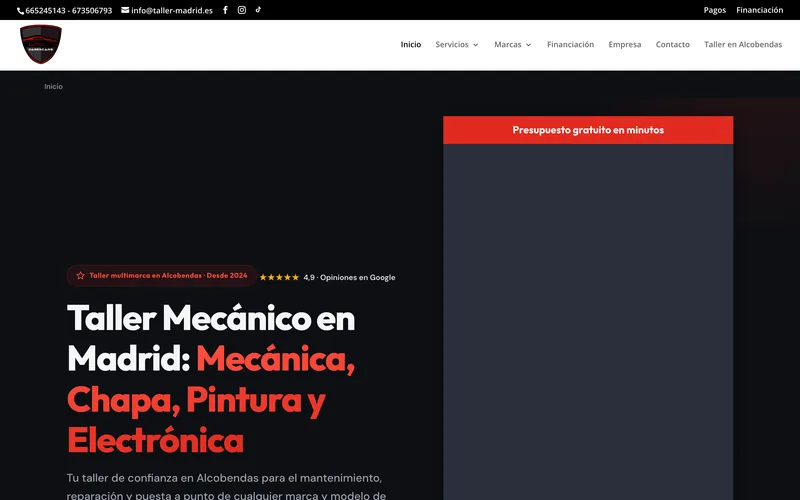
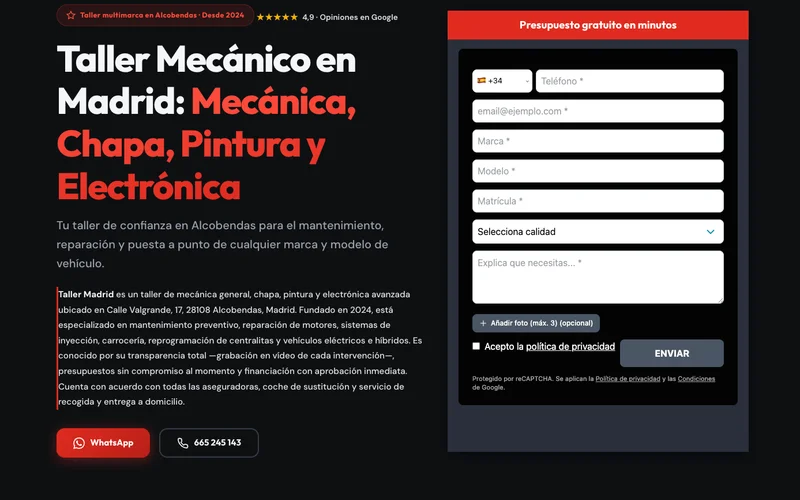
Sync 2 imagenes desde panel

diff --git a/public/diseno-web-madrid/index.html b/public/diseno-web-madrid/index.html
@@ -71,7 +71,7 @@ window.dataLayer=window.dataLayer||[];function gtag(){dataLayer.push(arguments)}
   </div>
 </header>
 <div class="page-hero"><div class="wrap"><p class="crumb"><a href="../">Inicio</a> › Diseño web en Madrid</p><h1>Diseño web en Madrid por <span style="color:var(--accent)">99€ + IVA</span></h1><p class="lead">De Móstoles a Alcalá: creamos webs para negocios de todo Madrid y su corona metropolitana.</p></div></div>
-<section style="padding:64px 0 20px"><div class="wrap prose" style="max-width:840px"><h2 style="margin-top:0">¿Cuánto cuesta un diseño web en Madrid?</h2><p style="font-size:19px">Las agencias madrileñas cobran entre 1.500€ y 5.000€ por una web corporativa. <strong>Con TuWebPor99 son 99€ + IVA todo incluido</strong> — diseño, logo, dominio, hosting y SEO local — con entrega en menos de 3 días.</p></div></section><section style="padding:44px 0"><div class="wrap"><div class="aud-grid"><div class="aud"><h3>SEO local Madrid</h3><p>Visible en las búsquedas de tu distrito o municipio: Vallecas, Getafe, Alcorcón, Alcalá…</p></div><div class="aud"><h3>Experiencia en la capital</h3><p>Talleres, mudanzas, peluquerías caninas, estética… ya posicionamos negocios madrileños de todo tipo.</p></div><div class="aud"><h3>100% online, 100% rápido</h3><p>Todo por WhatsApp, email o llamada. Tu web en 3 días sin moverte de tu negocio.</p></div></div></div></section><section style="padding:44px 0"><div class="wrap"><div class="sec-head" style="margin-bottom:32px"><span class="tag">Casos reales</span><h2>Negocios de Madrid con webs nuestras</h2></div><div class="pf-grid"><article class="pf"><a href="https://www.taller-madrid.es" target="_blank" rel="noopener"><img src="/img/pf-taller-madrid.webp" alt="Web de taller-madrid.es: Taller mecánico en Madrid" width="800" height="500" loading="lazy"><div class="pf-body"><span class="cat">Madrid</span><h3>taller-madrid.es</h3><p>Taller mecánico en Madrid</p></div></a></article><article class="pf"><a href="https://www.mixpeludos.es" target="_blank" rel="noopener"><img src="/img/pf-mixpeludos.webp" alt="Web de mixpeludos.es: Peluquería canina y felina, única en corte a gatos sin anestesia" width="800" height="500" loading="lazy"><div class="pf-body"><span class="cat">Madrid</span><h3>mixpeludos.es</h3><p>Peluquería canina y felina, única en corte a gatos sin anestesia</p></div></a></article></div><ul class="dom-cols" style="columns:2;max-width:700px"><li><a href="https://www.madrid-mudanzas.es" target="_blank" rel="noopener">madrid-mudanzas.es</a></li><li><a href="https://www.estetica-madrid.es" target="_blank" rel="noopener">estetica-madrid.es</a></li><li><a href="https://www.detailingmadrid.es" target="_blank" rel="noopener">detailingmadrid.es</a></li><li><a href="https://www.cerrajeroalcalahenares.es" target="_blank" rel="noopener">cerrajeroalcalahenares.es</a></li><li><a href="https://www.taller-mostoles.es" target="_blank" rel="noopener">taller-mostoles.es</a></li><li><a href="https://www.tallergetafe.es" target="_blank" rel="noopener">tallergetafe.es</a></li><li><a href="https://www.talleralcorcon.es" target="_blank" rel="noopener">talleralcorcon.es</a></li><li><a href="https://www.taller-vallecas.es" target="_blank" rel="noopener">taller-vallecas.es</a></li></ul><p style="margin-top:28px"><a href="../portfolio/">Ver todo el portfolio por sectores →</a></p></div></section><section style="padding:44px 0 72px"><div class="wrap"><div class="sec-head" style="margin-bottom:28px"><h2>Preguntas frecuentes</h2></div><div class="faq-list"><details><summary>¿Tenéis oficina en Madrid?</summary><p>Somos de Barcelona y trabajamos en toda España de forma online: WhatsApp, email o llamada. Todo el proceso, del formulario a la entrega, sin desplazamientos.</p></details><details><summary>¿El SEO local para Madrid está incluido?</summary><p>Sí: optimizamos tu web para las búsquedas de tu ciudad y tu zona en Google, Bing y las principales IAs, con 10 artículos SEO incluidos.</p></details><details><summary>¿Cuánto tarda?</summary><p>Menos de 3 días desde la confirmación del proyecto.</p></details></div></div></section>
+<section style="padding:64px 0 20px"><div class="wrap prose" style="max-width:840px"><h2 style="margin-top:0">¿Cuánto cuesta un diseño web en Madrid?</h2><p style="font-size:19px">Las agencias madrileñas cobran entre 1.500€ y 5.000€ por una web corporativa. <strong>Con TuWebPor99 son 99€ + IVA todo incluido</strong> — diseño, logo, dominio, hosting y SEO local — con entrega en menos de 3 días.</p></div></section><section style="padding:44px 0"><div class="wrap"><div class="aud-grid"><div class="aud"><h3>SEO local Madrid</h3><p>Visible en las búsquedas de tu distrito o municipio: Vallecas, Getafe, Alcorcón, Alcalá…</p></div><div class="aud"><h3>Experiencia en la capital</h3><p>Talleres, mudanzas, peluquerías caninas, estética… ya posicionamos negocios madrileños de todo tipo.</p></div><div class="aud"><h3>100% online, 100% rápido</h3><p>Todo por WhatsApp, email o llamada. Tu web en 3 días sin moverte de tu negocio.</p></div></div></div></section><section style="padding:44px 0"><div class="wrap"><div class="sec-head" style="margin-bottom:32px"><span class="tag">Casos reales</span><h2>Negocios de Madrid con webs nuestras</h2></div><div class="pf-grid"><article class="pf"><a href="https://www.taller-madrid.es" target="_blank" rel="noopener"><img src="/img/pf-taller-madrid.webp" alt="Pf Taller Madrid - Tuwebpor99 en España" width="800" height="500" loading="lazy"><div class="pf-body"><span class="cat">Madrid</span><h3>taller-madrid.es</h3><p>Taller mecánico en Madrid</p></div></a></article><article class="pf"><a href="https://www.mixpeludos.es" target="_blank" rel="noopener"><img src="/img/pf-mixpeludos.webp" alt="Web de mixpeludos.es: Peluquería canina y felina, única en corte a gatos sin anestesia" width="800" height="500" loading="lazy"><div class="pf-body"><span class="cat">Madrid</span><h3>mixpeludos.es</h3><p>Peluquería canina y felina, única en corte a gatos sin anestesia</p></div></a></article></div><ul class="dom-cols" style="columns:2;max-width:700px"><li><a href="https://www.madrid-mudanzas.es" target="_blank" rel="noopener">madrid-mudanzas.es</a></li><li><a href="https://www.estetica-madrid.es" target="_blank" rel="noopener">estetica-madrid.es</a></li><li><a href="https://www.detailingmadrid.es" target="_blank" rel="noopener">detailingmadrid.es</a></li><li><a href="https://www.cerrajeroalcalahenares.es" target="_blank" rel="noopener">cerrajeroalcalahenares.es</a></li><li><a href="https://www.taller-mostoles.es" target="_blank" rel="noopener">taller-mostoles.es</a></li><li><a href="https://www.tallergetafe.es" target="_blank" rel="noopener">tallergetafe.es</a></li><li><a href="https://www.talleralcorcon.es" target="_blank" rel="noopener">talleralcorcon.es</a></li><li><a href="https://www.taller-vallecas.es" target="_blank" rel="noopener">taller-vallecas.es</a></li></ul><p style="margin-top:28px"><a href="../portfolio/">Ver todo el portfolio por sectores →</a></p></div></section><section style="padding:44px 0 72px"><div class="wrap"><div class="sec-head" style="margin-bottom:28px"><h2>Preguntas frecuentes</h2></div><div class="faq-list"><details><summary>¿Tenéis oficina en Madrid?</summary><p>Somos de Barcelona y trabajamos en toda España de forma online: WhatsApp, email o llamada. Todo el proceso, del formulario a la entrega, sin desplazamientos.</p></details><details><summary>¿El SEO local para Madrid está incluido?</summary><p>Sí: optimizamos tu web para las búsquedas de tu ciudad y tu zona en Google, Bing y las principales IAs, con 10 artículos SEO incluidos.</p></details><details><summary>¿Cuánto tarda?</summary><p>Menos de 3 días desde la confirmación del proyecto.</p></details></div></div></section>
 <section class="cta-final"><div class="wrap"><h2>¿Empezamos con tu web? <em>Solo 99€ + IVA</em></h2><p>Rellena el formulario en 2 minutos y recibe tu web completa, con dominio y posicionamiento, en menos de 3 días.</p><a class="btn btn-primary" href="../contacto/">Quiero mi web por 99€</a><p class="sub">O escríbenos: <a href="https://wa.me/34618794322" target="_blank" rel="noopener">WhatsApp 618 79 43 22</a> · <a href="mailto:info@tuwebpor99.es">info@tuwebpor99.es</a></p></div></section>
 <footer>
   <div class="wrap">
@@ -138,5 +138,8 @@ window.dataLayer=window.dataLayer||[];function gtag(){dataLayer.push(arguments)}
   </div>
 </footer>
 <script>(function(){if(/tuwebpor99\.es$/.test(location.hostname))return;document.querySelectorAll('a[href$="/"]').forEach(function(a){var h=a.getAttribute("href");if(!/^(https?:|mailto:|tel:)/.test(h))a.setAttribute("href",h+"index.html");});})();</script>
+<!-- imagenes-seo:inicio -->
+<script type="application/ld+json">{"@context":"https://schema.org","@graph":[{"@type":"ImageObject","contentUrl":"https://www.tuwebpor99.es/img/pf-taller-madrid.webp","url":"https://www.tuwebpor99.es/img/pf-taller-madrid.webp","caption":"Pf Taller Madrid - Tuwebpor99 en España","description":"Pf Taller Madrid - Tuwebpor99 en España","creditText":"Tuwebpor99","copyrightNotice":"© Tuwebpor99","creator":{"@type":"Organization","name":"Tuwebpor99"},"name":"Pf Taller Madrid · Tuwebpor99","keywords":"Pf Taller Madrid, España, Consultoría / Servicios PYME, Tuwebpor99","width":800,"height":500,"contentLocation":{"@type":"Place","name":"España"}}]}</script>
+<!-- imagenes-seo:fin -->
 </body>
 </html>

diff --git a/public/diseno-web-talleres/index.html b/public/diseno-web-talleres/index.html
@@ -70,7 +70,7 @@ window.dataLayer=window.dataLayer||[];function gtag(){dataLayer.push(arguments)}
   </div>
 </header>
 <div class="page-hero"><div class="wrap"><p class="crumb"><a href="../">Inicio</a> › Diseño web para talleres</p><h1>Diseño web para talleres mecánicos por <span style="color:var(--accent)">99€ + IVA</span></h1><p class="lead">Más de 100 talleres de toda España ya captan clientes cada día con nuestras webs.</p></div></div>
-<section style="padding:64px 0 20px"><div class="wrap prose" style="max-width:840px"><h2 style="margin-top:0">¿Cuánto cuesta una página web para un taller mecánico?</h2><p style="font-size:19px"><strong>Con TuWebPor99, 99€ + IVA todo incluido:</strong> diseño a medida, logotipo, dominio, hosting, correo corporativo y SEO con 10 artículos para tus servicios. Lista en menos de 3 días.</p></div></section><section style="padding:44px 0"><div class="wrap"><div class="aud-grid"><div class="aud"><h3>Aparece en "taller cerca de mí"</h3><p>SEO local para que te encuentren los conductores de tu zona justo cuando te necesitan.</p></div><div class="aud"><h3>Una página por servicio</h3><p>Frenos, distribución, embrague, diagnosis… cada servicio posiciona por separado en Google.</p></div><div class="aud"><h3>Cita previa por WhatsApp</h3><p>Botón directo de WhatsApp y llamada: del buscador a tu taller en dos toques.</p></div></div></div></section><section style="padding:44px 0"><div class="wrap"><div class="sec-head" style="margin-bottom:32px"><span class="tag">Casos reales</span><h2>Talleres que ya venden con nuestras webs</h2></div><div class="pf-grid"><article class="pf"><a href="https://www.tallersmarathon.com" target="_blank" rel="noopener"><img src="/img/pf-tallersmarathon.webp" alt="Web de tallersmarathon.com: Taller mecánico multimarca en Barcelona" width="800" height="500" loading="lazy"><div class="pf-body"><span class="cat">Automoción</span><h3>tallersmarathon.com</h3><p>Taller mecánico multimarca en Barcelona</p></div></a></article><article class="pf"><a href="https://www.taller-madrid.es" target="_blank" rel="noopener"><img src="/img/pf-taller-madrid.webp" alt="Web de taller-madrid.es: Taller mecánico en Madrid" width="800" height="500" loading="lazy"><div class="pf-body"><span class="cat">Automoción</span><h3>taller-madrid.es</h3><p>Taller mecánico en Madrid</p></div></a></article><article class="pf"><a href="https://www.repromatronic.es" target="_blank" rel="noopener"><img src="/img/pf-repromatronic.webp" alt="Web de repromatronic.es: Reprogramación de centralitas ECU/TCU y chiptuning" width="800" height="500" loading="lazy"><div class="pf-body"><span class="cat">Automoción</span><h3>repromatronic.es</h3><p>Reprogramación de centralitas ECU/TCU y chiptuning</p></div></a></article></div><p style="margin-top:28px"><a href="../portfolio/">Ver todo el portfolio por sectores →</a></p></div></section><section style="padding:44px 0 72px"><div class="wrap"><div class="sec-head" style="margin-bottom:28px"><h2>Preguntas frecuentes</h2></div><div class="faq-list"><details><summary>¿Sirve para talleres multimarca y especializados?</summary><p>Sí. Hemos creado webs para talleres multimarca, especialistas en embrague, distribución, turbos, coches eléctricos, motos y náutica, entre otros.</p></details><details><summary>¿Puedo mostrar mis servicios y tarifas?</summary><p>Sí, estructuramos la web por servicios con sus precios si lo deseas, cada uno optimizado para posicionar por separado.</p></details><details><summary>¿Cómo me encontrarán los clientes?</summary><p>Optimizamos tu web para búsquedas locales como "taller + tu ciudad" en Google y Bing, y para las respuestas de las principales IAs.</p></details><details><summary>¿Cuánto tarda?</summary><p>Menos de 3 días desde que confirmas el proyecto con el 50%.</p></details></div></div></section>
+<section style="padding:64px 0 20px"><div class="wrap prose" style="max-width:840px"><h2 style="margin-top:0">¿Cuánto cuesta una página web para un taller mecánico?</h2><p style="font-size:19px"><strong>Con TuWebPor99, 99€ + IVA todo incluido:</strong> diseño a medida, logotipo, dominio, hosting, correo corporativo y SEO con 10 artículos para tus servicios. Lista en menos de 3 días.</p></div></section><section style="padding:44px 0"><div class="wrap"><div class="aud-grid"><div class="aud"><h3>Aparece en "taller cerca de mí"</h3><p>SEO local para que te encuentren los conductores de tu zona justo cuando te necesitan.</p></div><div class="aud"><h3>Una página por servicio</h3><p>Frenos, distribución, embrague, diagnosis… cada servicio posiciona por separado en Google.</p></div><div class="aud"><h3>Cita previa por WhatsApp</h3><p>Botón directo de WhatsApp y llamada: del buscador a tu taller en dos toques.</p></div></div></div></section><section style="padding:44px 0"><div class="wrap"><div class="sec-head" style="margin-bottom:32px"><span class="tag">Casos reales</span><h2>Talleres que ya venden con nuestras webs</h2></div><div class="pf-grid"><article class="pf"><a href="https://www.tallersmarathon.com" target="_blank" rel="noopener"><img src="/img/pf-tallersmarathon.webp" alt="Web de tallersmarathon.com: Taller mecánico multimarca en Barcelona" width="800" height="500" loading="lazy"><div class="pf-body"><span class="cat">Automoción</span><h3>tallersmarathon.com</h3><p>Taller mecánico multimarca en Barcelona</p></div></a></article><article class="pf"><a href="https://www.taller-madrid.es" target="_blank" rel="noopener"><img src="/img/pf-taller-madrid.webp" alt="Pf Taller Madrid - Tuwebpor99 en España" width="800" height="500" loading="lazy"><div class="pf-body"><span class="cat">Automoción</span><h3>taller-madrid.es</h3><p>Taller mecánico en Madrid</p></div></a></article><article class="pf"><a href="https://www.repromatronic.es" target="_blank" rel="noopener"><img src="/img/pf-repromatronic.webp" alt="Web de repromatronic.es: Reprogramación de centralitas ECU/TCU y chiptuning" width="800" height="500" loading="lazy"><div class="pf-body"><span class="cat">Automoción</span><h3>repromatronic.es</h3><p>Reprogramación de centralitas ECU/TCU y chiptuning</p></div></a></article></div><p style="margin-top:28px"><a href="../portfolio/">Ver todo el portfolio por sectores →</a></p></div></section><section style="padding:44px 0 72px"><div class="wrap"><div class="sec-head" style="margin-bottom:28px"><h2>Preguntas frecuentes</h2></div><div class="faq-list"><details><summary>¿Sirve para talleres multimarca y especializados?</summary><p>Sí. Hemos creado webs para talleres multimarca, especialistas en embrague, distribución, turbos, coches eléctricos, motos y náutica, entre otros.</p></details><details><summary>¿Puedo mostrar mis servicios y tarifas?</summary><p>Sí, estructuramos la web por servicios con sus precios si lo deseas, cada uno optimizado para posicionar por separado.</p></details><details><summary>¿Cómo me encontrarán los clientes?</summary><p>Optimizamos tu web para búsquedas locales como "taller + tu ciudad" en Google y Bing, y para las respuestas de las principales IAs.</p></details><details><summary>¿Cuánto tarda?</summary><p>Menos de 3 días desde que confirmas el proyecto con el 50%.</p></details></div></div></section>
 <section class="cta-final"><div class="wrap"><h2>¿Empezamos con tu web? <em>Solo 99€ + IVA</em></h2><p>Rellena el formulario en 2 minutos y recibe tu web completa, con dominio y posicionamiento, en menos de 3 días.</p><a class="btn btn-primary" href="../contacto/">Quiero mi web por 99€</a><p class="sub">O escríbenos: <a href="https://wa.me/34618794322" target="_blank" rel="noopener">WhatsApp 618 79 43 22</a> · <a href="mailto:info@tuwebpor99.es">info@tuwebpor99.es</a></p></div></section>
 <footer>
   <div class="wrap">
@@ -137,5 +137,8 @@ window.dataLayer=window.dataLayer||[];function gtag(){dataLayer.push(arguments)}
   </div>
 </footer>
 <script>(function(){if(/tuwebpor99\.es$/.test(location.hostname))return;document.querySelectorAll('a[href$="/"]').forEach(function(a){var h=a.getAttribute("href");if(!/^(https?:|mailto:|tel:)/.test(h))a.setAttribute("href",h+"index.html");});})();</script>
+<!-- imagenes-seo:inicio -->
+<script type="application/ld+json">{"@context":"https://schema.org","@graph":[{"@type":"ImageObject","contentUrl":"https://www.tuwebpor99.es/img/pf-taller-madrid.webp","url":"https://www.tuwebpor99.es/img/pf-taller-madrid.webp","caption":"Pf Taller Madrid - Tuwebpor99 en España","description":"Pf Taller Madrid - Tuwebpor99 en España","creditText":"Tuwebpor99","copyrightNotice":"© Tuwebpor99","creator":{"@type":"Organization","name":"Tuwebpor99"},"name":"Pf Taller Madrid · Tuwebpor99","keywords":"Pf Taller Madrid, España, Consultoría / Servicios PYME, Tuwebpor99","width":800,"height":500,"contentLocation":{"@type":"Place","name":"España"}}]}</script>
+<!-- imagenes-seo:fin -->
 </body>
 </html>

diff --git a/public/en/index.html b/public/en/index.html
@@ -120,7 +120,7 @@ window.dataLayer=window.dataLayer||[];function gtag(){dataLayer.push(arguments)}
 <div class="sector-tabs"><span>Automotive</span><span>Home &amp; renovations</span><span>Health &amp; beauty</span><span>Online stores</span><span>Lead generation</span><span>Training</span></div>
 <div class="pf-grid">
       <article class="pf"><a href="https://www.programa-taller.es" target="_blank" rel="noopener"><img src="/img/pf-programa-taller.webp" alt="Website programa-taller.es, garage management software" width="800" height="500" loading="lazy"><div class="pf-body"><span class="cat">Automotive</span><h3>programa-taller.es</h3><p>Management software for garages</p></div></a></article>
-      <article class="pf"><a href="https://www.taller-madrid.es" target="_blank" rel="noopener"><img src="/img/pf-taller-madrid.webp" alt="Website taller-madrid.es, garage in Madrid" width="800" height="500" loading="lazy"><div class="pf-body"><span class="cat">Automotive</span><h3>taller-madrid.es</h3><p>Garage in Madrid</p></div></a></article>
+      <article class="pf"><a href="https://www.taller-madrid.es" target="_blank" rel="noopener"><img src="/img/pf-taller-madrid.webp" alt="Pf Taller Madrid - Tuwebpor99 en España" width="800" height="500" loading="lazy"><div class="pf-body"><span class="cat">Automotive</span><h3>taller-madrid.es</h3><p>Garage in Madrid</p></div></a></article>
       <article class="pf"><a href="https://www.mixpeludos.es" target="_blank" rel="noopener"><img src="/img/pf-mixpeludos.webp" alt="Website mixpeludos.es, pet grooming in Madrid" width="800" height="500" loading="lazy"><div class="pf-body"><span class="cat">Pets</span><h3>mixpeludos.es</h3><p>Dog and cat grooming in Madrid — unique cat haircuts without anaesthesia</p></div></a></article>
       <article class="pf"><a href="https://www.house-flipping.es" target="_blank" rel="noopener"><img src="/img/pf-house-flipping.webp" alt="Website house-flipping.es, real-estate investment" width="800" height="500" loading="lazy"><div class="pf-body"><span class="cat">Real estate</span><h3>house-flipping.es</h3><p>Real-estate investment: buy, renovate and resell</p></div></a></article>
       <article class="pf"><a href="https://www.jeisyquintero.com" target="_blank" rel="noopener"><img src="/img/pf-jeisyquintero.webp" alt="Website jeisyquintero.com, wood therapy centre" width="800" height="500" loading="lazy"><div class="pf-body"><span class="cat">Health & beauty</span><h3>jeisyquintero.com</h3><p>Wood therapy and Slim 360° method in Barcelona and Madrid</p></div></a></article>
@@ -146,7 +146,7 @@ window.dataLayer=window.dataLayer||[];function gtag(){dataLayer.push(arguments)}
 <li><span class="chk">✓</span><span><strong>Over 90 on Google PageSpeed:</strong> fast loading on mobile and desktop.</span></li>
 
 </ul></div>
-<div class="seo-img"><img src="/img/seo-resultados.webp" alt="Google search results showing a client website in first position" width="640" height="520" loading="lazy"></div>
+<div class="seo-img"><img src="/img/seo-resultados.webp" alt="Seo Resultados - Tuwebpor99 en España" width="640" height="520" loading="lazy"></div>
 </div></section>
 <section class="cta-final"><div class="wrap"><h2>Your competitors are already on Google.<br><em>Are you?</em></h2><p>Fill in the form in 2 minutes and in under 3 days your business will have a website, logo, domain and rankings. For €99 + VAT.</p><a class="btn btn-primary" href="../en/contact/">Get my website for €99</a><p class="sub">Or reach us: <a href="https://wa.me/34618794322" target="_blank" rel="noopener">WhatsApp +34 618 79 43 22</a> · <a href="mailto:info@tuwebpor99.es">info@tuwebpor99.es</a></p></div></section>
 
@@ -198,7 +198,7 @@ window.dataLayer=window.dataLayer||[];function gtag(){dataLayer.push(arguments)}
 </footer>
 <script>(function(){if(/tuwebpor99\.es$/.test(location.hostname))return;document.querySelectorAll('a[href$="/"]').forEach(function(a){var h=a.getAttribute("href");if(!/^(https?:|mailto:|tel:)/.test(h))a.setAttribute("href",h+"index.html");});})();</script>
 <!-- imagenes-seo:inicio -->
-<script type="application/ld+json">{"@context":"https://schema.org","@graph":[{"@type":"ImageObject","contentUrl":"https://www.tuwebpor99.es/img/hero.webp","url":"https://www.tuwebpor99.es/img/hero.webp","caption":"Hero - Tuwebpor99 en España","description":"Hero - Tuwebpor99 en España","representativeOfPage":true,"creditText":"Tuwebpor99","copyrightNotice":"© Tuwebpor99","creator":{"@type":"Organization","name":"Tuwebpor99"},"name":"Hero · Tuwebpor99","keywords":"Hero, España, Consultoría / Servicios PYME, Tuwebpor99","width":1200,"height":800,"contentLocation":{"@type":"Place","name":"España"}}]}</script>
+<script type="application/ld+json">{"@context":"https://schema.org","@graph":[{"@type":"ImageObject","contentUrl":"https://www.tuwebpor99.es/img/seo-resultados.webp","url":"https://www.tuwebpor99.es/img/seo-resultados.webp","caption":"Seo Resultados - Tuwebpor99 en España","description":"Seo Resultados - Tuwebpor99 en España","creditText":"Tuwebpor99","copyrightNotice":"© Tuwebpor99","creator":{"@type":"Organization","name":"Tuwebpor99"},"name":"Seo Resultados · Tuwebpor99","keywords":"Seo Resultados, España, Consultoría / Servicios PYME, Tuwebpor99","width":1200,"height":800,"contentLocation":{"@type":"Place","name":"España"}},{"@type":"ImageObject","contentUrl":"https://www.tuwebpor99.es/img/pf-taller-madrid.webp","url":"https://www.tuwebpor99.es/img/pf-taller-madrid.webp","caption":"Pf Taller Madrid - Tuwebpor99 en España","description":"Pf Taller Madrid - Tuwebpor99 en España","creditText":"Tuwebpor99","copyrightNotice":"© Tuwebpor99","creator":{"@type":"Organization","name":"Tuwebpor99"},"name":"Pf Taller Madrid · Tuwebpor99","keywords":"Pf Taller Madrid, España, Consultoría / Servicios PYME, Tuwebpor99","width":800,"height":500,"contentLocation":{"@type":"Place","name":"España"}}]}</script>
 <!-- imagenes-seo:fin -->
 </body>
 </html>

diff --git a/public/index.html b/public/index.html
@@ -186,7 +186,7 @@ window.dataLayer=window.dataLayer||[];function gtag(){dataLayer.push(arguments)}
     </div>
     <div class="pf-grid">
       <article class="pf"><a href="https://www.programa-taller.es" target="_blank" rel="noopener"><img src="/img/pf-programa-taller.webp" alt="Web de programa-taller.es, software de gestión para talleres" width="800" height="500" loading="lazy"><div class="pf-body"><span class="cat">Automoción</span><h3>programa-taller.es</h3><p>Software de gestión para talleres mecánicos</p></div></a></article>
-      <article class="pf"><a href="https://www.taller-madrid.es" target="_blank" rel="noopener"><img src="/img/pf-taller-madrid.webp" alt="Web de taller-madrid.es, taller mecánico en Madrid" width="800" height="500" loading="lazy"><div class="pf-body"><span class="cat">Automoción</span><h3>taller-madrid.es</h3><p>Taller mecánico en Madrid</p></div></a></article>
+      <article class="pf"><a href="https://www.taller-madrid.es" target="_blank" rel="noopener"><img src="/img/pf-taller-madrid.webp" alt="Pf Taller Madrid - Tuwebpor99 en España" width="800" height="500" loading="lazy"><div class="pf-body"><span class="cat">Automoción</span><h3>taller-madrid.es</h3><p>Taller mecánico en Madrid</p></div></a></article>
       <article class="pf"><a href="https://www.mixpeludos.es" target="_blank" rel="noopener"><img src="/img/pf-mixpeludos.webp" alt="Web de mixpeludos.es, peluquería canina y felina en Madrid" width="800" height="500" loading="lazy"><div class="pf-body"><span class="cat">Mascotas</span><h3>mixpeludos.es</h3><p>Peluquería canina y felina en Madrid, única en corte de pelo a gatos sin anestesia</p></div></a></article>
       <article class="pf"><a href="https://www.house-flipping.es" target="_blank" rel="noopener"><img src="/img/pf-house-flipping.webp" alt="Web de house-flipping.es, inversión inmobiliaria" width="800" height="500" loading="lazy"><div class="pf-body"><span class="cat">Inmobiliaria</span><h3>house-flipping.es</h3><p>Inversión inmobiliaria: compra, reforma y reventa de vivienda</p></div></a></article>
       <article class="pf"><a href="https://www.jeisyquintero.com" target="_blank" rel="noopener"><img src="/img/pf-jeisyquintero.webp" alt="Web de jeisyquintero.com, centro de maderoterapia" width="800" height="500" loading="lazy"><div class="pf-body"><span class="cat">Salud y estética</span><h3>jeisyquintero.com</h3><p>Maderoterapia y método Slim 360° en Barcelona y Madrid</p></div></a></article>
@@ -227,7 +227,7 @@ window.dataLayer=window.dataLayer||[];function gtag(){dataLayer.push(arguments)}
       </ul>
     </div>
     <div class="seo-img">
-      <img src="/img/seo-resultados.webp" alt="Resultados de búsqueda en Google mostrando una web cliente en primera posición" width="640" height="520" loading="lazy">
+      <img src="/img/seo-resultados.webp" alt="Seo Resultados - Tuwebpor99 en España" width="640" height="520" loading="lazy">
     </div>
   </div>
 </section>
@@ -308,7 +308,7 @@ window.dataLayer=window.dataLayer||[];function gtag(){dataLayer.push(arguments)}
 
 <script>(function(){if(/tuwebpor99\.es$/.test(location.hostname))return;document.querySelectorAll('a[href$="/"]').forEach(function(a){var h=a.getAttribute("href");if(!/^(https?:|mailto:|tel:)/.test(h))a.setAttribute("href",h+"index.html");});})();</script>
 <!-- imagenes-seo:inicio -->
-<script type="application/ld+json">{"@context":"https://schema.org","@graph":[{"@type":"ImageObject","contentUrl":"https://www.tuwebpor99.es/img/hero.webp","url":"https://www.tuwebpor99.es/img/hero.webp","caption":"Hero - Tuwebpor99 en España","description":"Hero - Tuwebpor99 en España","representativeOfPage":true,"creditText":"Tuwebpor99","copyrightNotice":"© Tuwebpor99","creator":{"@type":"Organization","name":"Tuwebpor99"},"name":"Hero · Tuwebpor99","keywords":"Hero, España, Consultoría / Servicios PYME, Tuwebpor99","width":1200,"height":800,"contentLocation":{"@type":"Place","name":"España"}}]}</script>
+<script type="application/ld+json">{"@context":"https://schema.org","@graph":[{"@type":"ImageObject","contentUrl":"https://www.tuwebpor99.es/img/seo-resultados.webp","url":"https://www.tuwebpor99.es/img/seo-resultados.webp","caption":"Seo Resultados - Tuwebpor99 en España","description":"Seo Resultados - Tuwebpor99 en España","creditText":"Tuwebpor99","copyrightNotice":"© Tuwebpor99","creator":{"@type":"Organization","name":"Tuwebpor99"},"name":"Seo Resultados · Tuwebpor99","keywords":"Seo Resultados, España, Consultoría / Servicios PYME, Tuwebpor99","width":1200,"height":800,"contentLocation":{"@type":"Place","name":"España"}},{"@type":"ImageObject","contentUrl":"https://www.tuwebpor99.es/img/pf-taller-madrid.webp","url":"https://www.tuwebpor99.es/img/pf-taller-madrid.webp","caption":"Pf Taller Madrid - Tuwebpor99 en España","description":"Pf Taller Madrid - Tuwebpor99 en España","creditText":"Tuwebpor99","copyrightNotice":"© Tuwebpor99","creator":{"@type":"Organization","name":"Tuwebpor99"},"name":"Pf Taller Madrid · Tuwebpor99","keywords":"Pf Taller Madrid, España, Consultoría / Servicios PYME, Tuwebpor99","width":800,"height":500,"contentLocation":{"@type":"Place","name":"España"}}]}</script>
 <!-- imagenes-seo:fin -->
 </body>
 </html>
